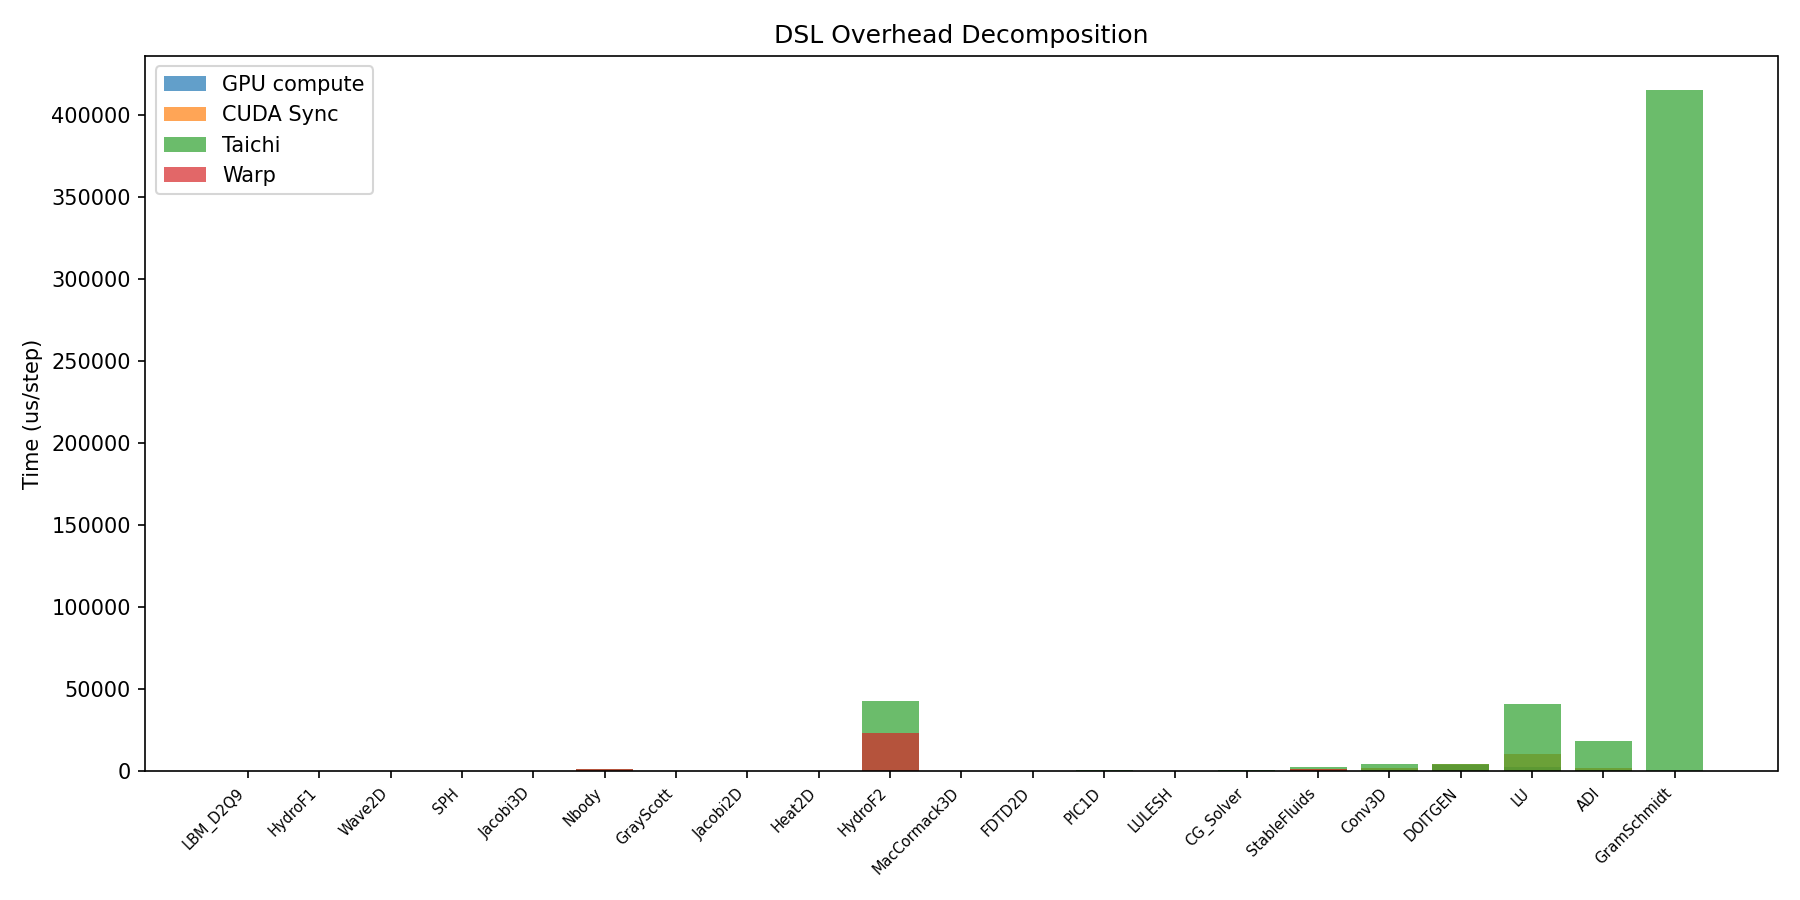
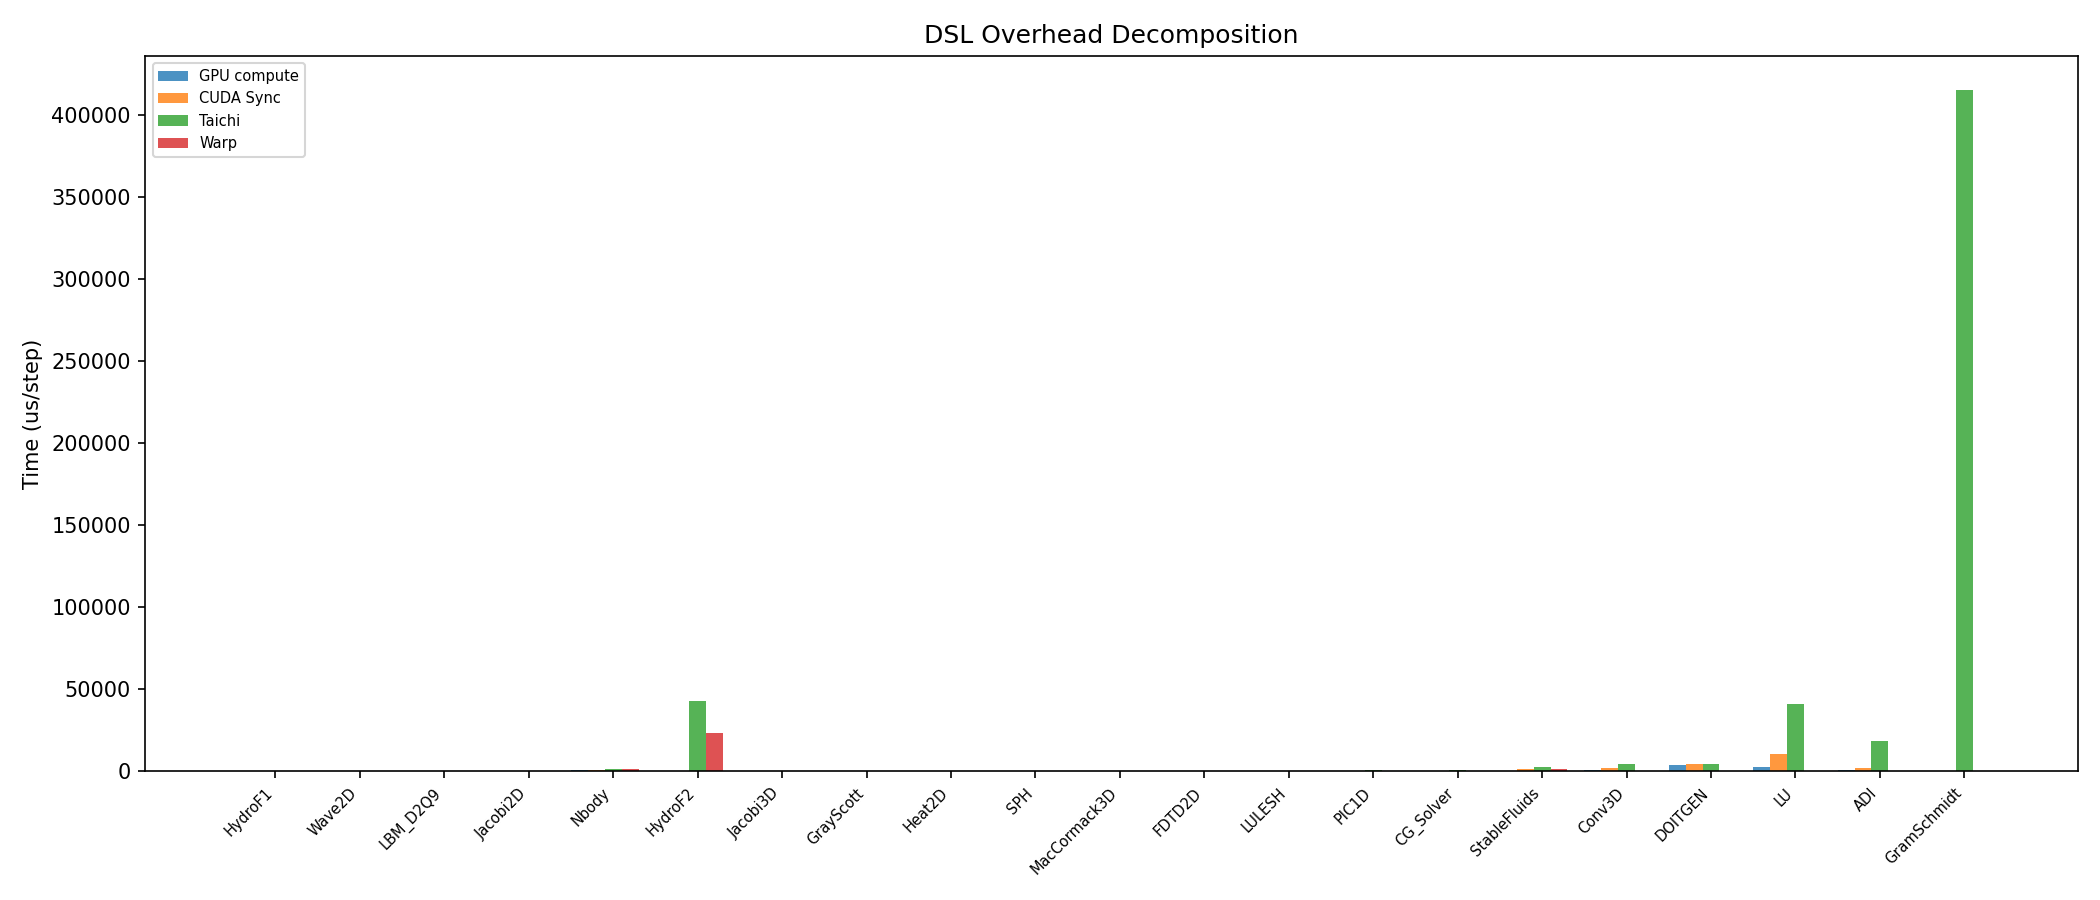
Regenerate correctness (21/21 pass), fix heatmap NaN masking, grouped decomposition
correctness_log.txt: regenerated — 21 passed, 0 failed
  All Warp cases now pass (struct packing fixed the errors)

plot_matrix.py:
- Heatmap uses NaN for missing data (was 0), np.ma.masked_invalid
- DSL decomposition: grouped bars with proper width offsets (was overlapping)

plots/: 4 PNG + 4 CSV regenerated

diff --git a/benchmark/plot_matrix.py b/benchmark/plot_matrix.py
@@ -156,14 +156,15 @@ def plot2(data, od):
         import numpy as np
         cases_sorted = sorted(set(r["case"] for r in rows), key=lambda c: KERN.get(c,0))
         strats_list = sorted(set(r["strategy"] for r in rows))
-        matrix = np.zeros((len(strats_list), len(cases_sorted)))
+        matrix = np.full((len(strats_list), len(cases_sorted)), np.nan)
         for r in rows:
             si = strats_list.index(r["strategy"]) if r["strategy"] in strats_list else -1
             ci = cases_sorted.index(r["case"]) if r["case"] in cases_sorted else -1
             if si >= 0 and ci >= 0:
                 matrix[si, ci] = float(r["speedup_vs_sync"])
         fig, ax = plt.subplots(figsize=(16, 8))
-        im = ax.imshow(matrix, aspect='auto', cmap='RdYlGn', vmin=0, vmax=max(3, matrix.max()))
+        masked = np.ma.masked_invalid(matrix)
+        im = ax.imshow(masked, aspect='auto', cmap='RdYlGn', vmin=0, vmax=max(3, np.nanmax(matrix)))
         ax.set_xticks(range(len(cases_sorted)))
         ax.set_xticklabels(cases_sorted, rotation=45, ha='right', fontsize=7)
         ax.set_yticks(range(len(strats_list)))
@@ -239,17 +240,20 @@ def plot3(data, od):
 
     plt, has_mpl = try_matplotlib()
     if has_mpl and rows:
+        import numpy as np
         cases = sorted(set(r["case"] for r in rows), key=lambda c: KERN.get(c,0))
-        fig, ax = plt.subplots(figsize=(12, 6))
-        x = range(len(cases))
-        for col, label in [("gpu_compute_us","GPU compute"),("cuda_sync_us","CUDA Sync"),("taichi_us","Taichi"),("warp_us","Warp")]:
+        fig, ax = plt.subplots(figsize=(14, 6))
+        x = np.arange(len(cases))
+        cols = [("gpu_compute_us","GPU compute"),("cuda_sync_us","CUDA Sync"),("taichi_us","Taichi"),("warp_us","Warp")]
+        width = 0.8 / len(cols)
+        for i, (col, label) in enumerate(cols):
             vals = [float(next((r[col] for r in rows if r["case"]==c and r[col]), 0)) for c in cases]
-            ax.bar(x, vals, label=label, alpha=0.7)
+            ax.bar(x + i*width, vals, width, label=label, alpha=0.8)
         ax.set_ylabel("Time (us/step)")
         ax.set_title("DSL Overhead Decomposition")
-        ax.set_xticks(x)
+        ax.set_xticks(x + width*len(cols)/2)
         ax.set_xticklabels(cases, rotation=45, ha='right', fontsize=7)
-        ax.legend()
+        ax.legend(fontsize=7)
         plt.tight_layout()
         png = os.path.join(od, "dsl_decomposition.png")
         plt.savefig(png, dpi=150); plt.close()
